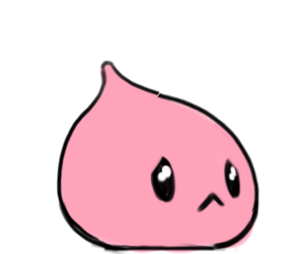
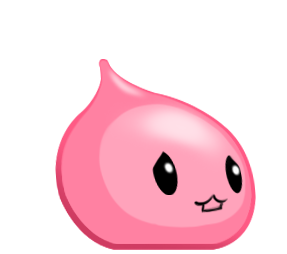
죽는 슬라임, 땅 이미지 교체

Changed region(s): [[0.1672, 0.2205, 0.9199, 1.0], [0.5017, 0.5787, 0.6411, 0.7992]]

diff --git a/Assets/Script/Slime.cs b/Assets/Script/Slime.cs
@@ -31,6 +31,17 @@ public class Slime : Moving {
 		curY = transform.position.y;
 		StartCoroutine ("moveAction");
 	}
+	IEnumerator passDoor(){
+		StopCoroutine(moveAction());
+		base.isAlive = false;
+		float slimeAlpha = 255;
+		while(slimeAlpha > 0){
+			slimeAlpha -=30;
+			GetComponent<SpriteRenderer>().color  = new Color(255,255,255,slimeAlpha);
+			yield return new WaitForSeconds(0.3f);
+		}
+		Destroy(this.gameObject);
+	} 
     IEnumerator stopping()
     {
         yield return new WaitForSeconds(0.5f);

diff --git a/Assets/Script/Door.cs b/Assets/Script/Door.cs
@@ -20,6 +20,7 @@ public class Door : Wall {
 	void OnTriggerEnter2D(Collider2D coll){
 		if (coll.gameObject.tag == "Slime" && coll.gameObject.GetComponent<Moving>().isAlive) {
 			handler.addScore ();
+			//coll.gameObject.GetComponent<Slime>().StartCoroutine("passDoor");
 			Destroy (coll.gameObject);
 		} else {
 			//coll.gameObject.GetComponent<Moving> ().moveBack();
